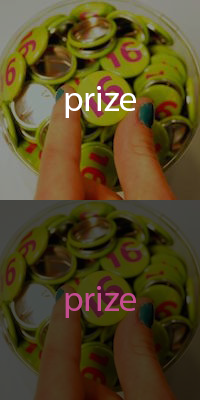
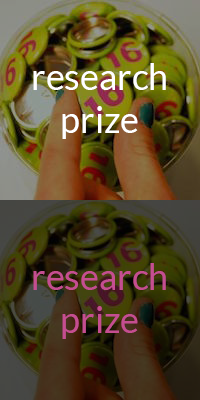
updates home page buttons

Changed region(s): [[0.15, 0.66, 0.84, 0.87], [0.15, 0.15, 0.84, 0.36]]

diff --git a/style.css b/style.css
@@ -833,8 +833,6 @@ footer nav ul li a:hover {
 	}
 	
 	.mobile-siteheader {
-		/*display: inline-block !important;
-		width: 100%;*/
 		display: flex !important;
 		flex-direction: row;
 		justify-content: space-between; 
@@ -1068,12 +1066,12 @@ footer nav ul li a:hover {
 
 @media (max-width: 477px) {
 	.tri-box {
-		height: 50px;
-		background-position: 50% 22%;
+		height: 90px;
+		background-position: 50% 17.5%;
 	}
 	
 	.tri-box:hover {
-		background-position: 50% 79%;
+		background-position: 50% 82%;
 	}
 }
 

diff --git a/page-templates/home-page.php b/page-templates/home-page.php
@@ -36,7 +36,7 @@ get_header(); ?>
                     </div>
                 </a>
                 <a href="#" title="prize" target="_blank">
-                    <div class="tri-box" style="background-image: url(https://allisoncandreva.com/test/wp-content/themes/frank/images/box_bg_img_1.png)" >    	
+                    <div class="tri-box" style="background-image: url(https://allisoncandreva.com/test/wp-content/themes/frank/images/box_bg_img_2.png)" >    	
                     <span role="img" aria-label="A woman attending frank 2016"> </span>
                     </div>
                 </a>
